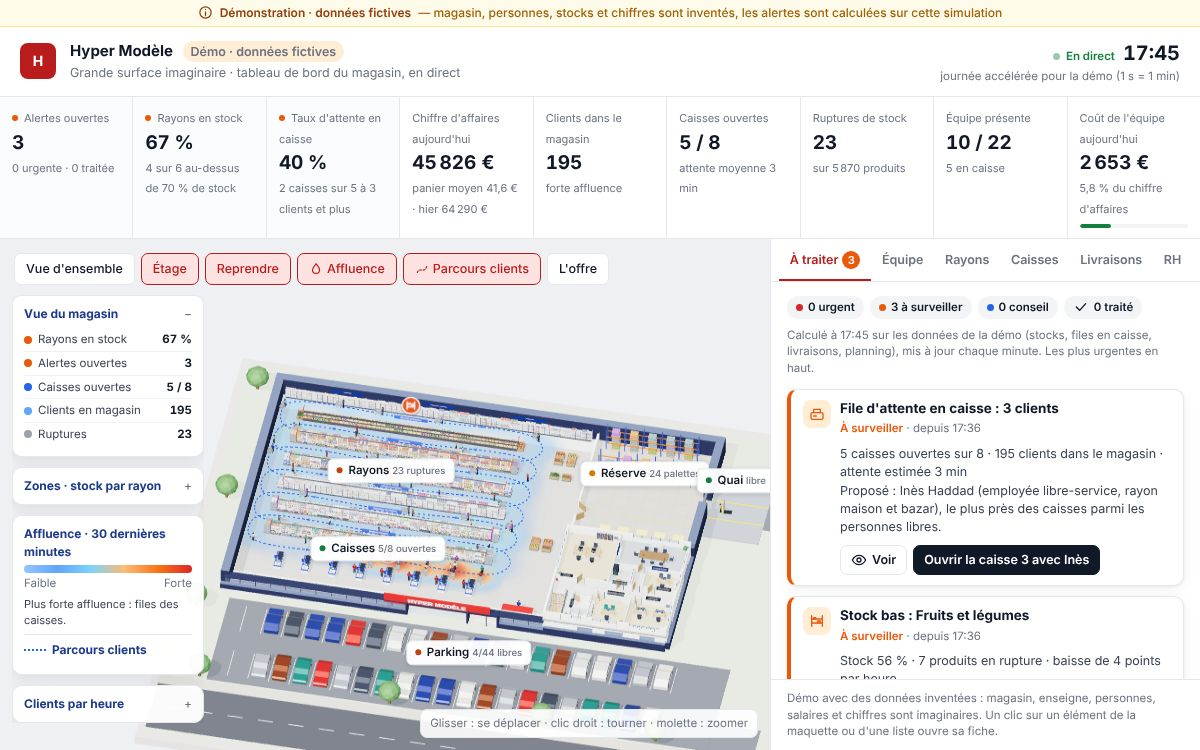
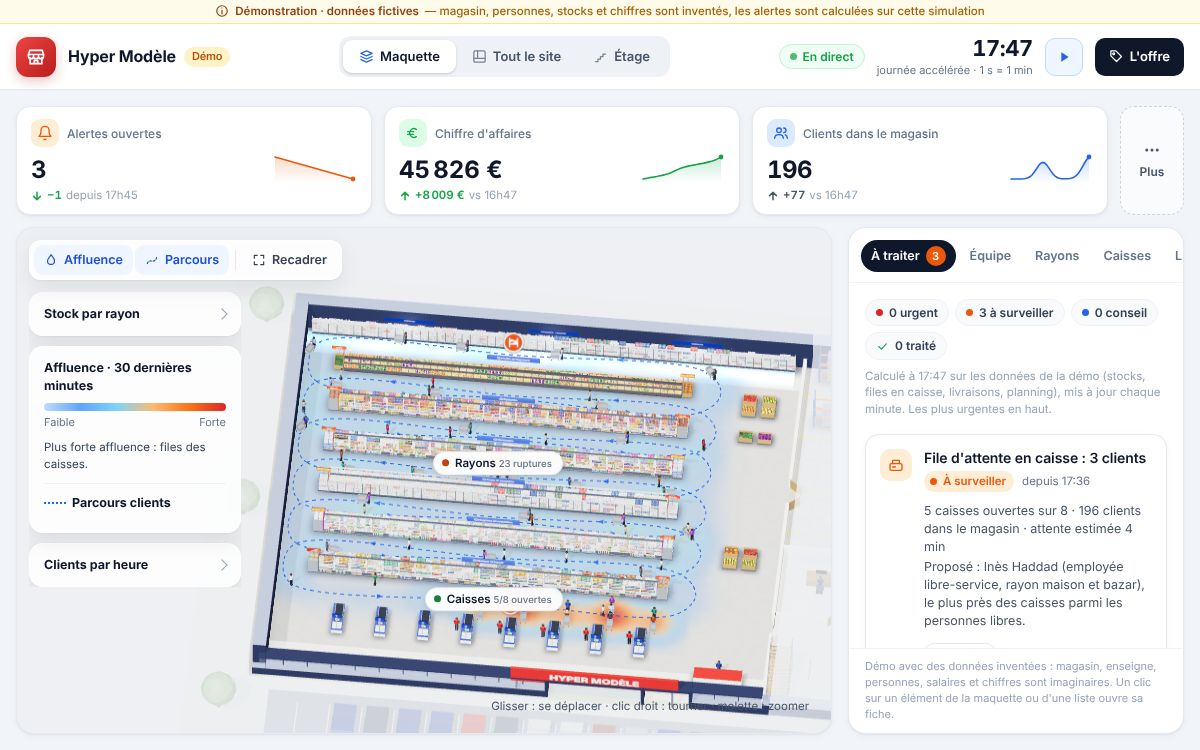
Démo grande surface : fin de la vue Maquette et de la nouvelle interface
Tests 1440 et 390 passés (alertes, 4 actions, 6 onglets, 3 vues, clics 3D et pastilles, menu Plus, tiroir), 0 erreur console.
Téléphone : choisir un élément redescend le tiroir, la fiche ne couvre plus les boutons de la maquette.
Captures de la page de vente refaites (demo-a-traiter.jpg, demo-grande-surface.jpg).

Claude-Session: https://claude.ai/code/session_019sAS1mSCwtL7mbf5WR9LH2

diff --git a/crm-visuel/grande-surface/index.html b/crm-visuel/grande-surface/index.html
@@ -275,7 +275,7 @@
     .poignee i { width: 40px; height: 5px; border-radius: 5px; background: #cbd5e1; }
     .onglets { padding: 2px 12px 10px; }
     .contenu { padding: 12px 14px; }
-    .fiche { position: fixed; z-index: 40; left: 8px; right: 8px; bottom: 8px; width: auto; max-width: none; max-height: 70vh; max-height: 70dvh; box-shadow: 0 -4px 32px rgba(15,23,42,.22); }
+    .fiche { position: fixed; z-index: 40; left: 8px; right: 8px; bottom: 8px; width: auto; max-width: none; max-height: 55vh; max-height: 55dvh; box-shadow: 0 -4px 32px rgba(15,23,42,.22); }
     .service { width: 80px; }
   }
   @media (prefers-reduced-motion: reduce) {
@@ -1243,7 +1243,9 @@ function choisir(cle) {
   // un élément hors de la surface de vente : on passe à la vue qui le montre
   if (cle && p && /^etage/.test(cle) && vueCourante !== 'etage') changerVue('etage', false);
   else if (cle && p && vueCourante === 'maquette' && !DANS_MAGASIN(p[0])) changerVue('site', false);
-  selection = cle; rendreFiche(); if (!p) return;
+  selection = cle; rendreFiche();
+  if (MOBILE && cle && window.ouvrirTiroir) window.ouvrirTiroir(false); // téléphone : le tiroir redescend pour montrer la maquette et la fiche
+  if (!p) return;
   const z = p[1] * (MOBILE ? 1.3 : 1), v = p[0].clone();
   viser(v, z);
 }
@@ -1280,6 +1282,7 @@ $('pause').onclick = () => { pause = !pause; const b = $('pause'); b.classList.t
 {
   const tir = $('tiroir'), poi = $('poignee');
   const ouvrir = (oui) => { tir.classList.toggle('ouvert', oui); poi.setAttribute('aria-expanded', oui); };
+  window.ouvrirTiroir = ouvrir;
   poi.onclick = () => ouvrir(!tir.classList.contains('ouvert'));
   document.querySelectorAll('[data-onglet]').forEach((b) => b.addEventListener('click', () => { if (MOBILE) ouvrir(true); }));
   let y0 = null;
